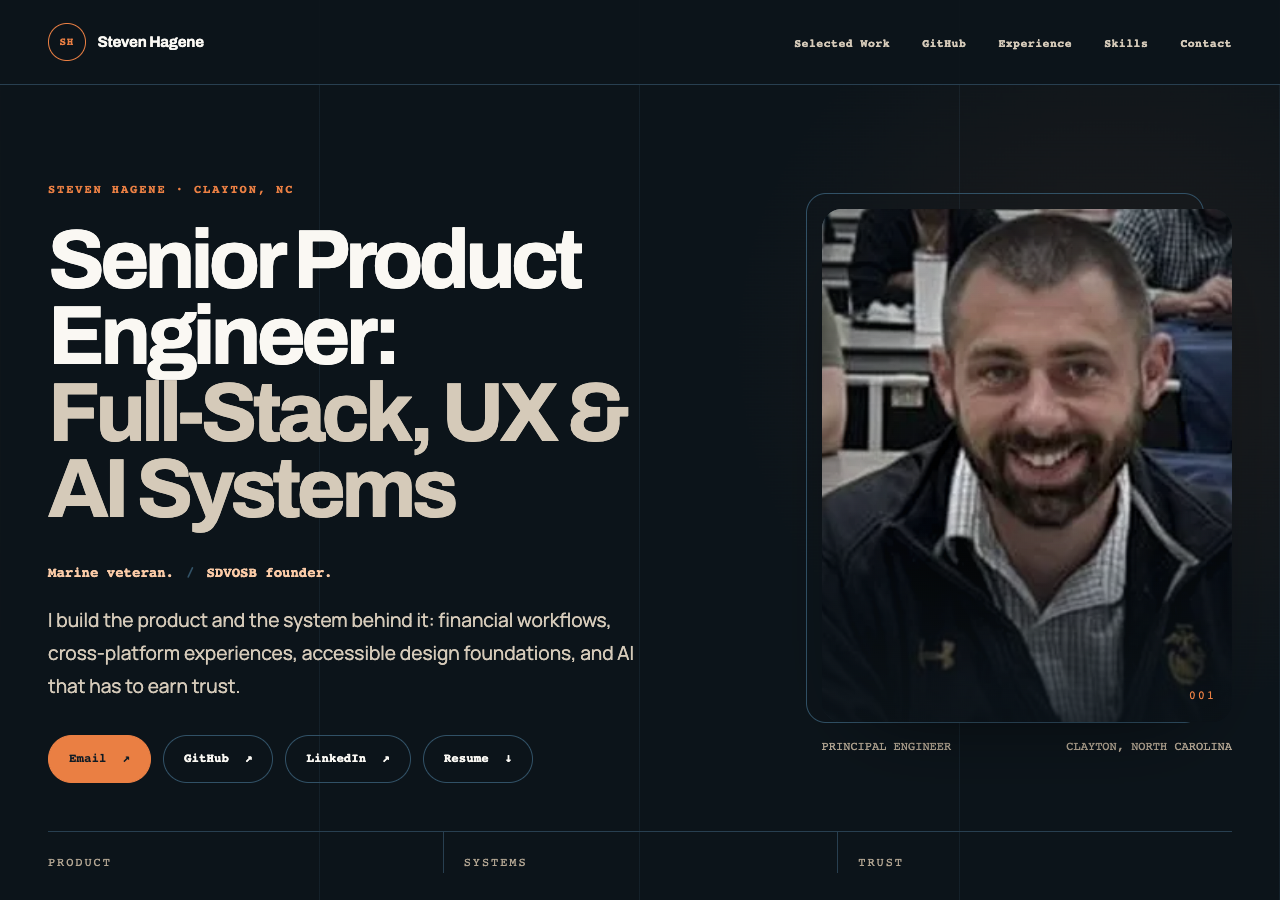
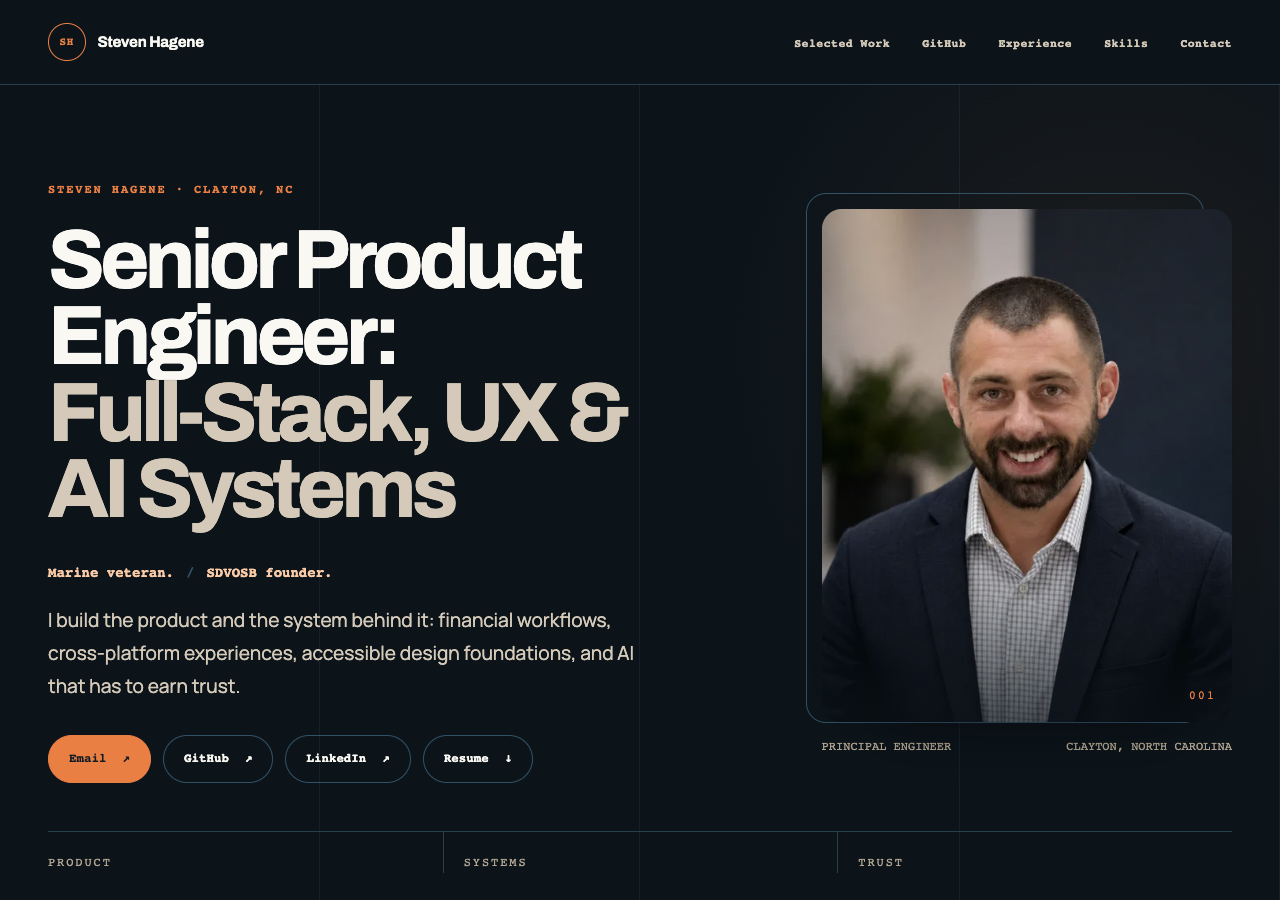
Replace profile portrait

Changed region(s): [[0.625, 0.2178, 0.9688, 0.8089], [0.9062, 0.6844, 0.9375, 0.7778]]

diff --git a/research/FINDINGS.md b/research/FINDINGS.md
@@ -4,7 +4,7 @@ Audit date: August 10, 2026
 
 ## Verdict
 
-The existing Next.js site undermined the August 2026 resumes. It presented Computershare as current, centered five retired hobby projects, used the dated navy/scarlet/gold theme, and shipped client-side animation and theme code that did not support the new positioning. The rebuild should preserve only the supplied headshot and favicon.
+The existing Next.js site undermined the August 2026 resumes. It presented Computershare as current, centered five retired hobby projects, used the dated navy/scarlet/gold theme, and shipped client-side animation and theme code that did not support the new positioning. The initial rebuild preserved only the supplied headshot and favicon until stronger replacements were available.
 
 ## Legacy inventory
 
@@ -18,11 +18,11 @@ Removed:
 
 Preserved:
 
-- `public/photo.jpg`, moved into `src/assets/photo.jpg` so Astro can generate responsive image variants.
-- The existing favicon, moved to `public/favicon.ico`.
+- The original `public/photo.jpg`, initially moved into Astro's asset pipeline and later replaced by `src/assets/stevenprofile.png`.
+- The original favicon concept, rebuilt as a correctly sized `public/favicon.png`.
 - Repository history and the new `BRIEF.md`.
 
-The 800 by 800 supplied photo is technically usable, friendly, and large enough for responsive generation. Its busy event background and casual crop make it a dated placeholder. Replace it before launch with a current portrait that has a quiet background, similar warmth, and enough room for a 4:5 crop.
+The initial 800 by 800 event photo was technically usable but visually dated. It was replaced before launch by a professional 1122 by 1402 portrait with a quiet, naturally blurred background and a native near-4:5 composition.
 
 ## Public GitHub crop
 
@@ -68,6 +68,6 @@ The portfolio differs intentionally by staying dark-only, using a slightly warme
 ## Known launch dependencies
 
 - Both August 9, 2026 persona resume PDFs are present under `public/resumes/` and were visually checked after rendering both pages of each file.
-- The headshot should be replaced before live cutover.
+- The professional replacement headshot is present and verified at all target widths.
 - Cloudflare preview deployment depends on authenticated account access and is deferred to the ship phase after first-build review.
 - DNS is intentionally untouched. The cutover runbook lives in `README.md`.

diff --git a/qa/CHANGELOG.md b/qa/CHANGELOG.md
@@ -86,4 +86,16 @@ Evidence:
 - Cloudflare Pages project `steven-hagene-portfolio` was created without custom domains or DNS changes.
 - Preview branch deployment completed at `https://astro-rebuild.steven-hagene-portfolio.pages.dev`; immutable deployment URL: `https://65d5d6df.steven-hagene-portfolio.pages.dev`.
 
-Presentation verdict: ready for final review. The supplied event photo is substantially improved by the crop and tonal treatment, but a purpose-shot portrait remains the one optional future upgrade. Nothing has touched the live `stevenhagene.com` domain.
+Presentation verdict: ready for final review. Nothing has touched the live `stevenhagene.com` domain.
+
+## Pass 6: professional portrait replacement
+
+Status: complete
+
+Changes and evidence:
+
+- Moved the supplied 1122 by 1402 professional portrait into `src/assets/stevenprofile.png` and removed the superseded event photo.
+- Removed the event-photo-specific 1.62x crop. The replacement's native near-4:5 composition now fills the frame without transform-based cropping.
+- Retained only a restrained saturation, contrast, and edge treatment so the photograph belongs to the sister-site palette without looking processed.
+- Refreshed the presentation-ready screenshots at 390, 768, and 1280 pixels.
+- Re-ran the full browser gate: zero horizontal overflow, console errors, page errors, or axe violations at all three widths.

diff --git a/README.md b/README.md
@@ -54,9 +54,7 @@ public/resumes/senior-frontend-ux-engineer.pdf
 
 If either file is removed, `npm run build` emits a warning and the site labels that link `PDF pending`.
 
-Replace [`src/assets/photo.jpg`](src/assets/photo.jpg) with a current square or portrait-oriented headshot. Preserve the filename so no component change is required.
-
-The current supplied event photo is presented with a tight shoulders-up crop and dark tonal treatment. It is shippable, but a purpose-shot portrait remains the clearest future visual upgrade.
+The current professional portrait lives at [`src/assets/stevenprofile.png`](src/assets/stevenprofile.png). Preserve that filename when replacing it so no component change is required.
 
 ## Cloudflare Pages
 

diff --git a/qa/RUBRIC.md b/qa/RUBRIC.md
@@ -35,7 +35,7 @@ Every QA pass records its viewport, evidence, critique, and change in `qa/CHANGE
 - Private-work limitations are explicit.
 - Experience dates match the brief and concurrent roles are unambiguous.
 - The site never claims that placeholder PDFs exist.
-- The supplied photo is marked in project documentation as a replacement item, not presented as a newly commissioned headshot.
+- The professional portrait is source-controlled, responsive, and framed without an artificial crop that compromises the composition.
 
 ## Responsive composition
 
